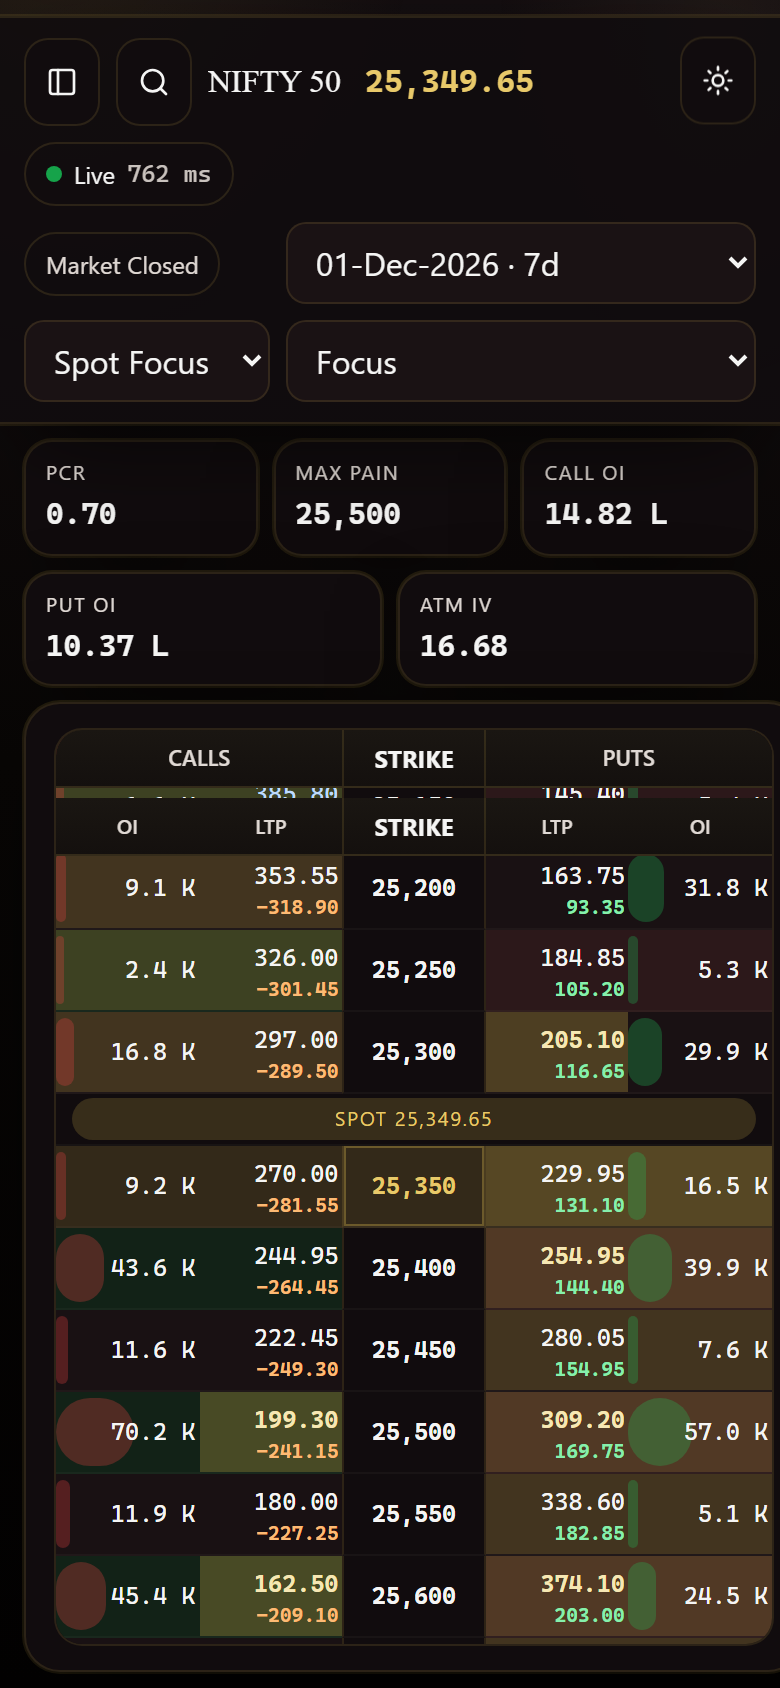
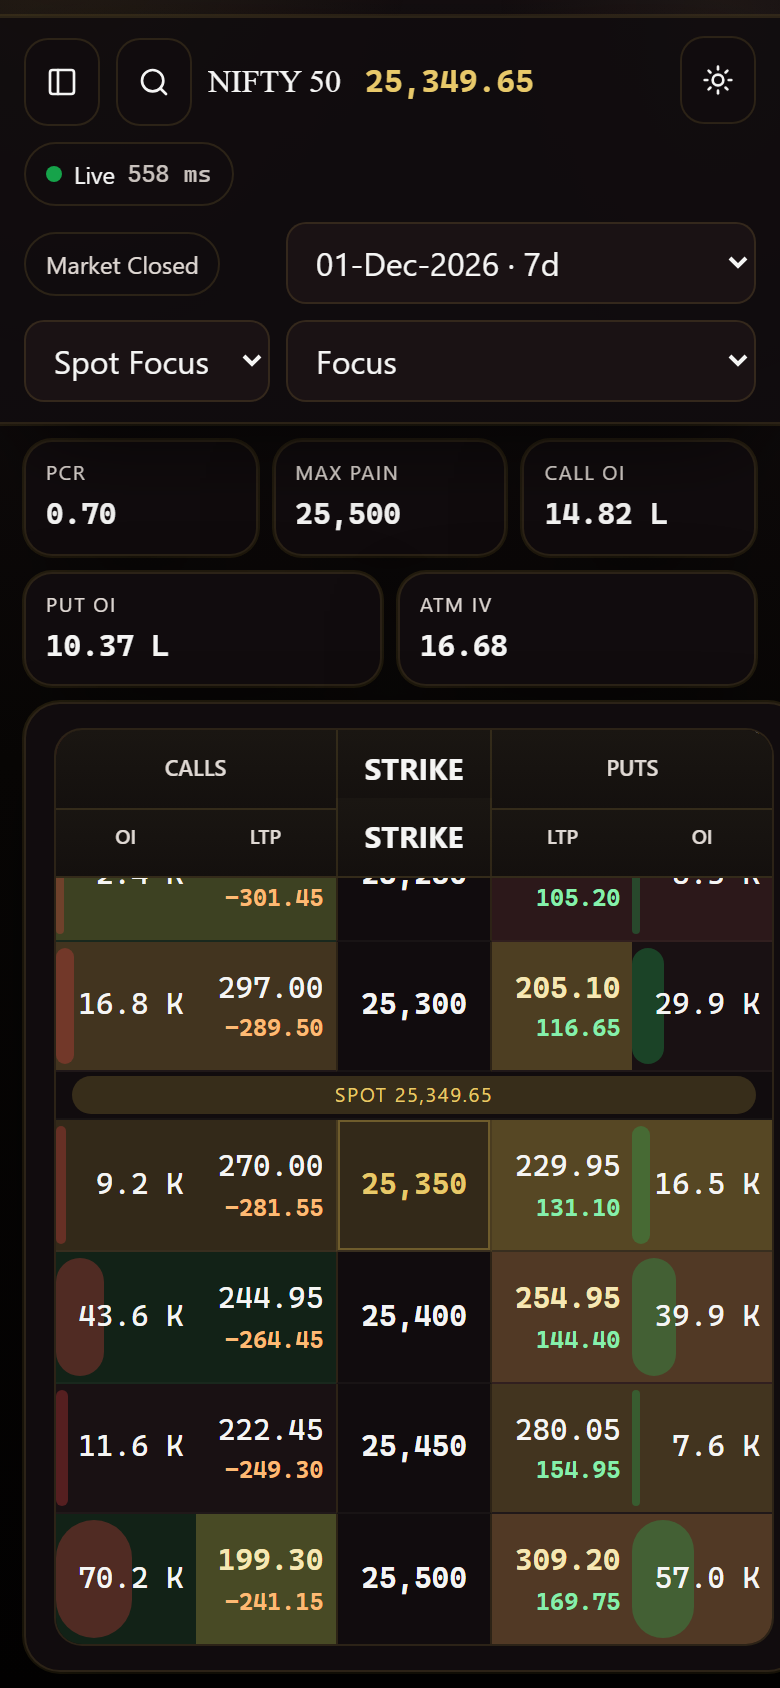
Drop the strike underlines and give the phone book more room.
Search, the strike sheet, and the phone contract list now close with Back.

Changed region(s): [[0.0615, 0.4313, 1.0, 0.9858], [0.1538, 0.0924, 0.2154, 0.1232]]

diff --git a/web/src/app/globals.css b/web/src/app/globals.css
@@ -1181,6 +1181,10 @@ html.dark .quote-card.put {
   }
 }
 
+.rail-back {
+  display: none;
+}
+
 @media (max-width: 980px) {
   html,
   body {
@@ -1259,6 +1263,21 @@ html.dark .quote-card.put {
 
   .rail-brand {
     display: none;
+  }
+
+  .rail-back {
+    display: inline-flex;
+    align-items: center;
+    gap: 8px;
+    min-height: 44px;
+    padding: 0 12px;
+    border: 0;
+    border-radius: 12px;
+    background: transparent;
+    color: var(--ar-ink);
+    font-family: var(--font-sans);
+    font-weight: 650;
+    cursor: pointer;
   }
 
   .symbol-list {
@@ -1616,12 +1635,6 @@ html.dark .is-itm {
   background: rgba(212, 178, 76, 0.2);
 }
 
-.is-call-wall .strike-cell,
-.is-put-wall .strike-cell,
-.is-move .strike-cell {
-  box-shadow: inset 0 -2px 0 var(--ar-gold-dark);
-}
-
 .palette-backdrop {
   position: fixed;
   inset: 0;
@@ -1641,13 +1654,26 @@ html.dark .is-itm {
   overflow: hidden;
 }
 
+.palette-bar {
+  display: flex;
+  align-items: center;
+  gap: 4px;
+  border-bottom: 1px solid var(--ar-border);
+}
+
+.palette-back {
+  flex: 0 0 auto;
+  width: 44px;
+  height: 44px;
+  margin-left: 8px;
+}
+
 .palette input {
   width: 100%;
   border: 0;
-  border-bottom: 1px solid var(--ar-border);
   background: transparent;
   color: var(--ar-ink);
-  padding: 16px;
+  padding: 16px 16px 16px 8px;
   font-size: 16px;
   outline: none;
 }
@@ -1658,7 +1684,7 @@ html.dark .is-itm {
   padding: 8px;
 }
 
-.palette button {
+.palette ul button {
   width: 100%;
   display: flex;
   justify-content: space-between;
@@ -1672,8 +1698,8 @@ html.dark .is-itm {
   text-align: left;
 }
 
-.palette button.is-active,
-.palette button:hover {
+.palette ul button.is-active,
+.palette ul button:hover {
   background: rgba(212, 178, 76, 0.16);
 }
 
@@ -1932,9 +1958,15 @@ html.dark .is-itm {
 
   .chain-scroll[data-density="focus"] .chain-table thead th,
   .chain-scroll[data-density="focus"] .chain-table tbody td {
-    padding: 5px 2px;
+    padding: 8px 6px;
     overflow: hidden;
     letter-spacing: 0;
+  }
+
+  .chain-scroll[data-density="focus"] .chain-table tbody td {
+    padding-top: 14px;
+    padding-bottom: 14px;
+    line-height: 1.3;
   }
 
   .chain-scroll[data-density="focus"] .col-oi {
@@ -1946,14 +1978,14 @@ html.dark .is-itm {
   }
 
   .chain-scroll[data-density="focus"] .strike-cell {
-    width: 20%;
+    width: 22%;
     min-width: 0;
-    font-size: 12px;
+    font-size: 15px;
   }
 
   .chain-scroll[data-density="focus"] .quote-num {
     display: block;
-    font-size: 12px;
+    font-size: 15px;
   }
 
   .chain-scroll[data-density="focus"] .col-volume,
@@ -1964,9 +1996,9 @@ html.dark .is-itm {
 
   .chain-scroll[data-density="focus"] .ltp-chng {
     display: block;
-    margin-top: 1px;
+    margin-top: 4px;
     font-family: var(--font-data);
-    font-size: 10px;
+    font-size: 12px;
     font-weight: 650;
     line-height: 1.1;
     overflow: hidden;

diff --git a/web/src/components/option-chain-table.tsx b/web/src/components/option-chain-table.tsx
@@ -3,7 +3,6 @@
 import { Fragment, useEffect, useLayoutEffect, useMemo, useRef, useState, type ReactNode } from "react";
 import { motion, useReducedMotion } from "framer-motion";
 
-import { chainHighlights } from "@/lib/analytics";
 import { columnHint, columnLabel, putColumns, visibleColumns } from "@/lib/columns";
 import { cn } from "@/lib/cn";
 import { formatCompact, formatNumber, formatPrice, formatSigned, isEmptyValue } from "@/lib/format";
@@ -107,7 +106,6 @@ export function OptionChainTable({
     return snapshot.rows.slice(Math.max(0, idx - 18), Math.min(snapshot.rows.length, idx + 19));
   }, [depth, snapshot.rows, spotStrike]);
 
-  const highlights = useMemo(() => chainHighlights(rows), [rows]);
   const scales = useMemo(() => {
     const oi = Math.max(1, ...rows.flatMap((row) => [row.ce.oi ?? 0, row.pe.oi ?? 0]));
     const volume = Math.max(1, ...rows.flatMap((row) => [row.ce.volume ?? 0, row.pe.volume ?? 0]));
@@ -207,24 +205,12 @@ export function OptionChainTable({
                 <tr
                   id={`strike-${row.strike}`}
                   data-volume={callQuiet && putQuiet ? "zero" : "traded"}
-                  data-highlight={
-                    row.strike === highlights.maxCallOi
-                      ? "call-oi"
-                      : row.strike === highlights.maxPutOi
-                        ? "put-oi"
-                        : row.strike === highlights.maxMove
-                          ? "move"
-                          : undefined
-                  }
                   className={cn(
                     "chain-row",
                     atSpot && "is-atm",
                     callQuiet && putQuiet && "is-zero",
                     itmCall && "is-itm-call",
                     itmPut && "is-itm-put",
-                    row.strike === highlights.maxCallOi && "is-call-wall",
-                    row.strike === highlights.maxPutOi && "is-put-wall",
-                    row.strike === highlights.maxMove && "is-move",
                   )}
                   onClick={() => onSelect(row)}
                 >

diff --git a/web/e2e/desk.spec.ts b/web/e2e/desk.spec.ts
@@ -74,6 +74,12 @@ test("desk, density, volume shade, stream, and motion", async ({ page }, testInf
     await page.waitForTimeout(500);
   }
 
+  const searchDialog = page.getByRole("dialog", { name: "Contract search" });
+  await page.getByRole("button", { name: "Search contracts" }).click();
+  await expect(searchDialog).toBeVisible();
+  await searchDialog.getByRole("button", { name: "Back" }).click();
+  await expect(searchDialog).toBeHidden();
+
   const chainText = await page.locator(".chain-table").innerText();
   expect(chainText).not.toMatch(/\+\d/);
   expect(chainText).not.toMatch(/ATM|±/);
@@ -155,7 +161,7 @@ test("desk, density, volume shade, stream, and motion", async ({ page }, testInf
   expect(sheetBox).toBeTruthy();
   expect(sheetBox!.x).toBeGreaterThanOrEqual(-1);
   expect(sheetBox!.x + sheetBox!.width).toBeLessThanOrEqual((viewport?.width ?? 0) + 2);
-  await page.getByRole("button", { name: "Close" }).click();
+  await page.getByRole("button", { name: "Back" }).click();
   await expect(sheet).toBeHidden();
 
   const layout = await page.evaluate(() => {

diff --git a/web/src/components/command-palette.tsx b/web/src/components/command-palette.tsx
@@ -2,6 +2,7 @@
 
 import { useEffect, useMemo, useState } from "react";
 import { AnimatePresence, motion } from "framer-motion";
+import { ArrowLeft } from "lucide-react";
 
 import { displayName } from "@/lib/display";
 import type { Instrument } from "@/lib/types";
@@ -56,6 +57,10 @@ export function CommandPalette({
             exit={{ y: 8, opacity: 0 }}
             onClick={(event) => event.stopPropagation()}
           >
+            <div className="palette-bar">
+            <button className="icon-btn palette-back" type="button" onClick={onClose} aria-label="Back">
+              <ArrowLeft className="h-4 w-4" />
+            </button>
             <input
               autoFocus
               value={query}
@@ -77,6 +82,7 @@ export function CommandPalette({
                 }
               }}
             />
+            </div>
             <ul>
               {results.map((item, index) => (
                 <li key={`${item.exchange}-${item.symbol}`}>

diff --git a/web/src/components/terminal.tsx b/web/src/components/terminal.tsx
@@ -2,7 +2,7 @@
 
 import { useEffect, useLayoutEffect, useMemo, useRef, useState } from "react";
 import { MotionConfig, motion } from "framer-motion";
-import { Moon, PanelLeft, Search, Sun } from "lucide-react";
+import { ArrowLeft, Moon, PanelLeft, Search, Sun } from "lucide-react";
 
 import { BrandLogo } from "@/components/brand-logo";
 import { CommandPalette } from "@/components/command-palette";
@@ -187,6 +187,10 @@ export function Terminal() {
         <div className="rail-brand">
           <BrandLogo compact />
         </div>
+        <button className="rail-back" type="button" onClick={() => setRailOpen(false)}>
+          <ArrowLeft className="h-4 w-4" />
+          Back
+        </button>
         {book ? (
           <InstrumentTree
             indexes={book.indexes}

diff --git a/web/src/components/quote-sheet.tsx b/web/src/components/quote-sheet.tsx
@@ -1,6 +1,7 @@
 "use client";
 
 import { AnimatePresence, motion } from "framer-motion";
+import { ArrowLeft } from "lucide-react";
 
 import { formatCompact, formatNumber, formatPrice, formatSigned } from "@/lib/format";
 import type { ChainRow, OptionQuote } from "@/lib/types";
@@ -37,8 +38,8 @@ export function QuoteSheet({
                 <p className="eyebrow">Strike</p>
                 <h2>{formatNumber(row.strike, 0)}</h2>
               </div>
-              <button className="icon-btn" type="button" onClick={onClose}>
-                Close
+              <button className="icon-btn" type="button" onClick={onClose} aria-label="Back">
+                <ArrowLeft className="h-4 w-4" />
               </button>
             </header>
             <div className="sheet-grid">

diff --git a/web/docs/interface.md b/web/docs/interface.md
@@ -5,7 +5,7 @@
 - Sidebar tree: Indices and Equity, each split into NSE and BSE. Sections animate open and closed.
 - Rows show last and change. NIFTY comes from the NSE index tape. SENSEX and Anand Rathi Wealth on NSE and BSE come from the live quote supplement, because those names are not on the NSE index tape.
 - Pins and the last contract are stored in the browser.
-- Command palette: Search contracts, or Ctrl/Cmd+K. Arrow keys and Enter select.
+- Command palette: Search contracts, or Ctrl/Cmd+K. Arrow keys and Enter select. Back closes it, and Back also closes a strike and the phone contract list.
 - Expiry menu groups Weekly and Monthly and shows days remaining.
 - On narrow screens the tree starts closed and opens as a bottom sheet.
 
